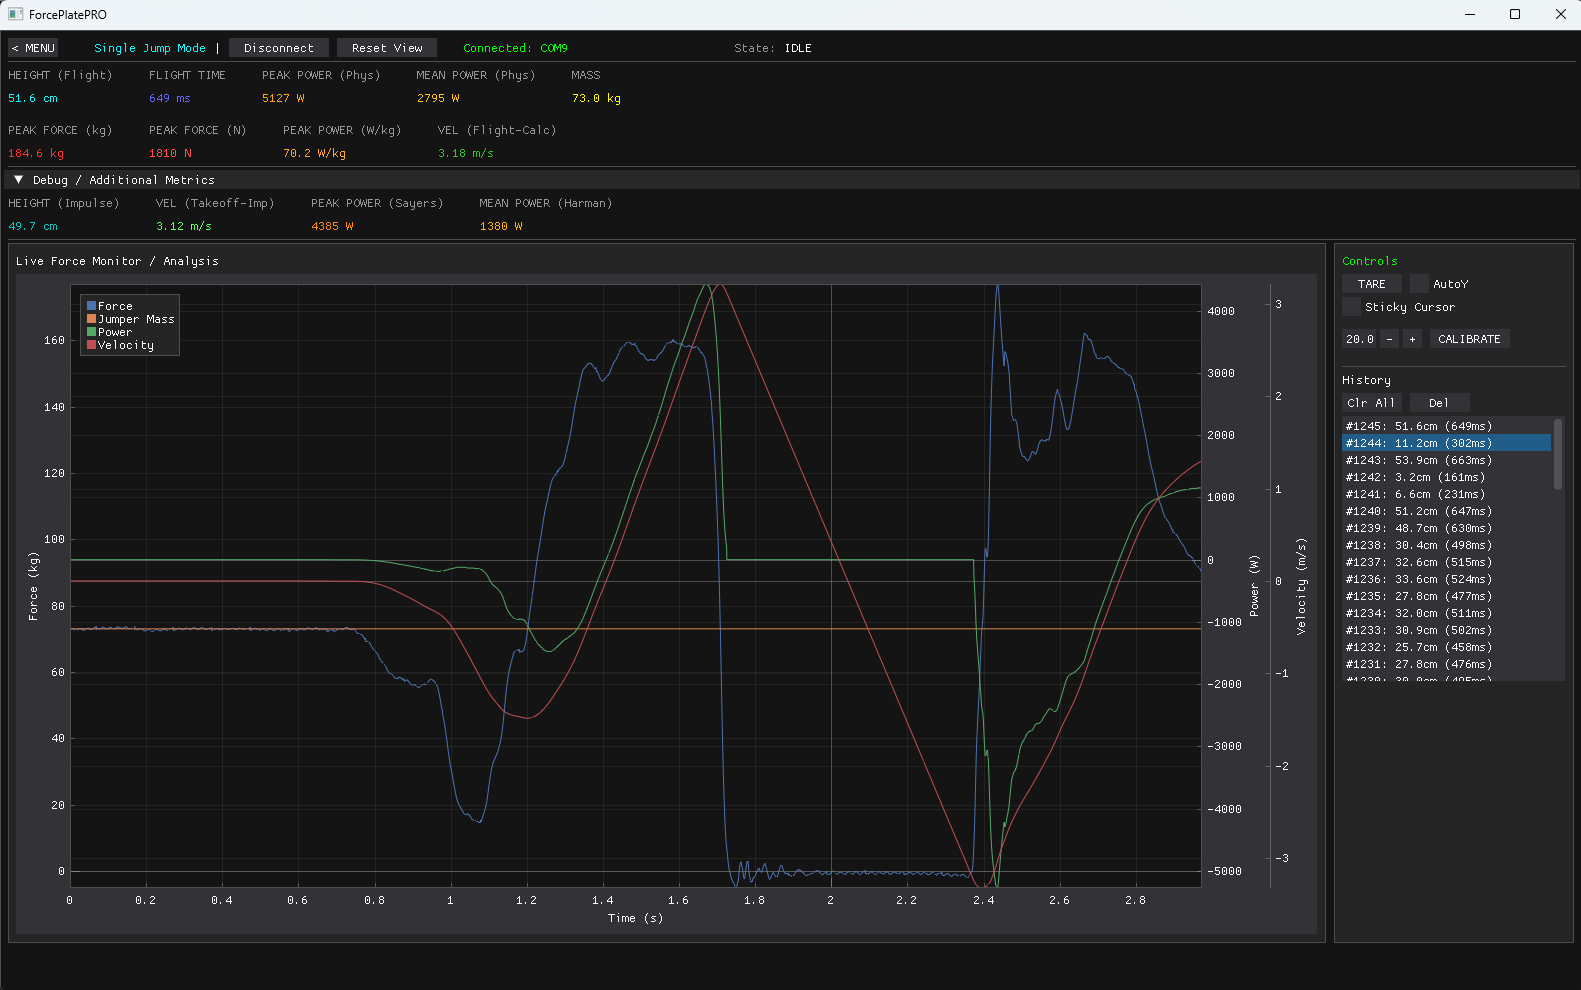
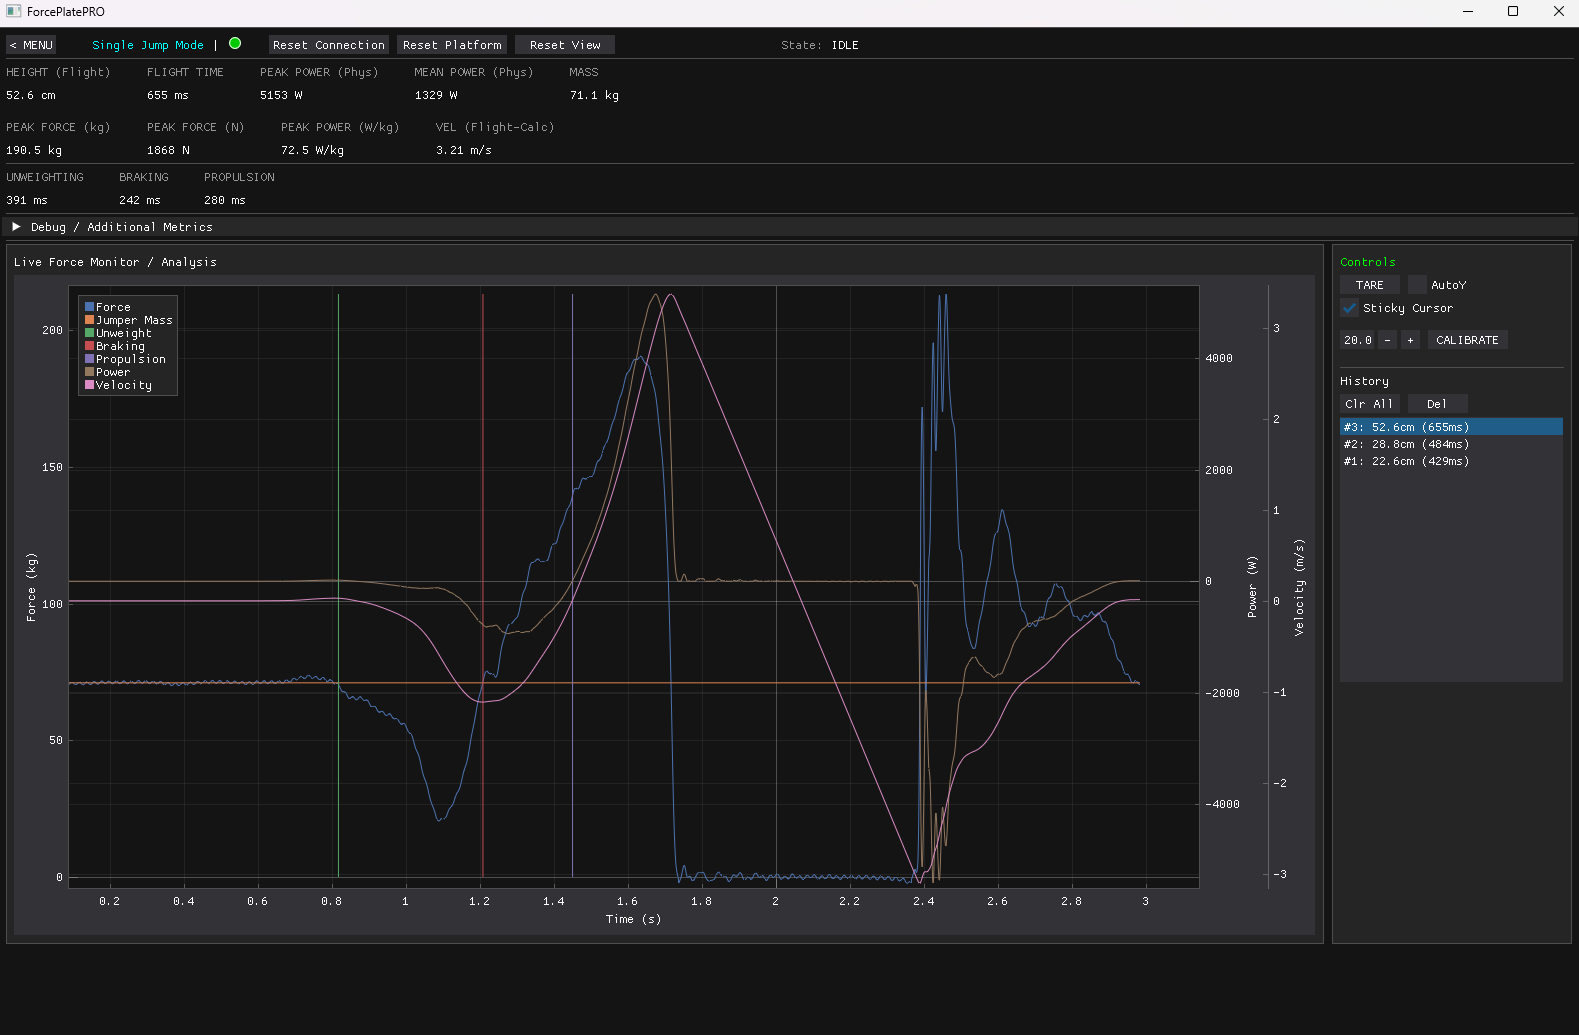
y-lock fix, image update

diff --git a/python_app/ui/callbacks.py b/python_app/ui/callbacks.py
@@ -251,7 +251,9 @@ def history_click_callback(sender, app_data):
             
             dpg.fit_axis_data("x_axis")
             dpg.fit_axis_data("y_axis")
+            dpg.set_axis_limits_auto("y_axis_power")
             dpg.fit_axis_data("y_axis_power")
+            dpg.set_axis_limits_auto("y_axis_vel")
             dpg.fit_axis_data("y_axis_vel")
             
     except Exception as e:

diff --git a/python_app/ui/plot_manager.py b/python_app/ui/plot_manager.py
@@ -189,5 +189,7 @@ class PlotManager:
 
         dpg.fit_axis_data("x_axis")
         dpg.fit_axis_data("y_axis")
+        dpg.set_axis_limits_auto("y_axis_power")
         dpg.fit_axis_data("y_axis_power")
+        dpg.set_axis_limits_auto("y_axis_vel")
         dpg.fit_axis_data("y_axis_vel")
